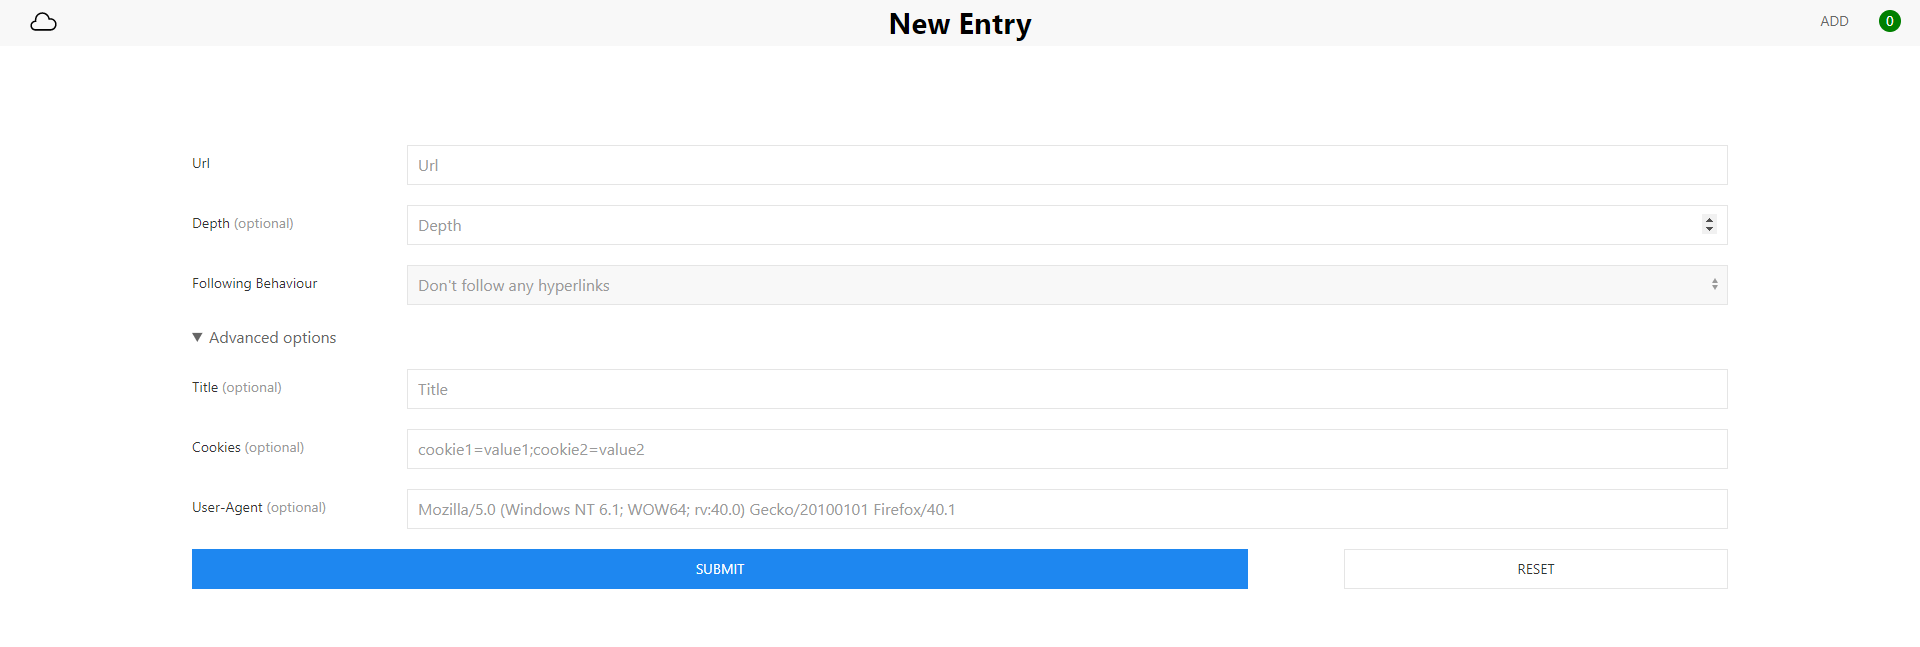
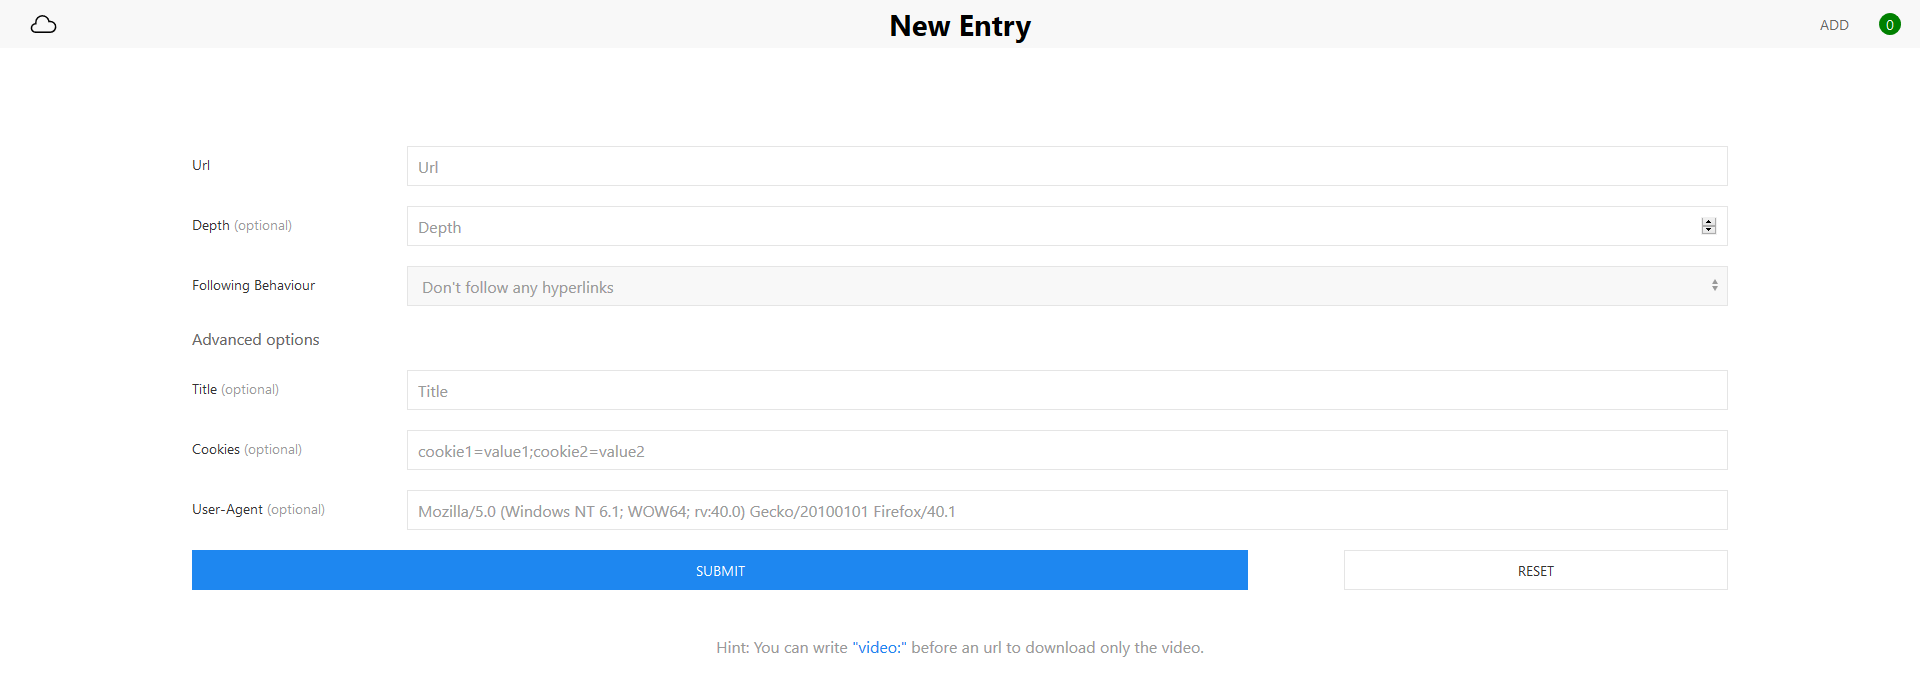
Show in README that it now also supports video downloads

diff --git a/README.md b/README.md
@@ -1,18 +1,14 @@
 # Collect
 Collect is a server to collect & archive websites written for NodeJS.
 
-It is intended for people who want to archive individual websites, eg
+It is intended for anyone who wants to archive individual websites or videos.
 
-```
-https://example.com
-```
-
-Collect stores a static copy of the url on your disk
+Collect stores a static copy of the url on your disk.
 
 ## Table of contents
   * [Features](#features)
-    + [Screenshots](#screenshots)
-    + [Installation](#installation)
+  * [Screenshots](#screenshots)
+  * [Installation](#installation)
       - [Settings](#settings)
       - [Plugins](#plugins)
     + [Updating](#updating)
@@ -26,6 +22,7 @@ Collect stores a static copy of the url on your disk
 ## Features
    * General
       * Website archiving
+	    * Video downloading
       * Website viewing
    * Webinterface
       * Add sites to the archive
